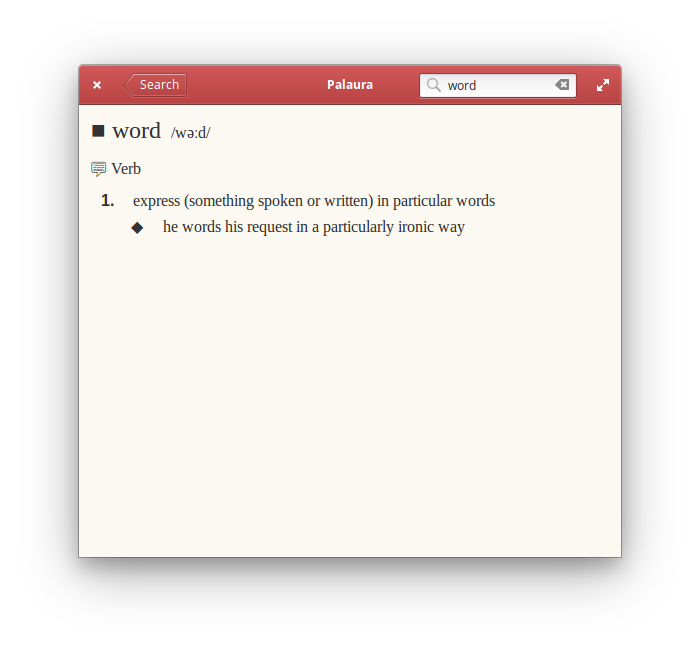
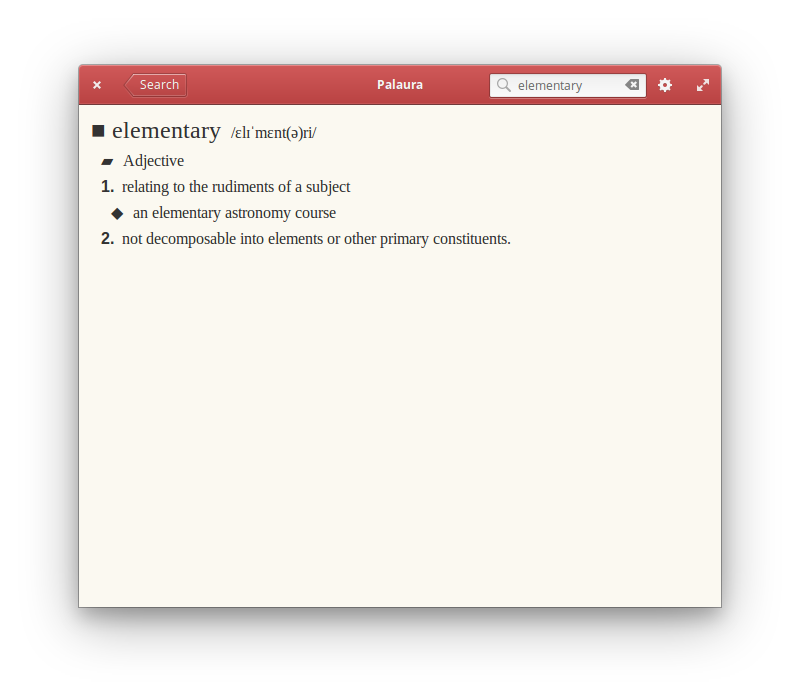
1.0.1 - Spanish Dictionary via Preferences // Small UI changes

Changed region(s): [[0.09, 0.0923, 0.93, 0.8923]]

diff --git a/data/stylesheet.css b/data/stylesheet.css
@@ -1,18 +1,16 @@
 @define-color colorPrimary #cb5353;
 @define-color textColorPrimaryShadow #a45350;
-@define-color colorSecondary #fbf9f1;
-@define-color textColorPrimary #fff;
-@define-color textColorSecondary #333333;
+@define-color textColorPrimary #f5f5f5;
 
 .palaura-window {
     background-color: @colorPrimary;
 }
 
 .palaura-view {
-    background-color: @colorSecondary;
+    background-color: #fbf9f1;
 }
 
 .palaura-view:selected {
-    background-color: @textColorSecondary;
+    background-color: #333333;
     color: @textColorPrimary;
 }
